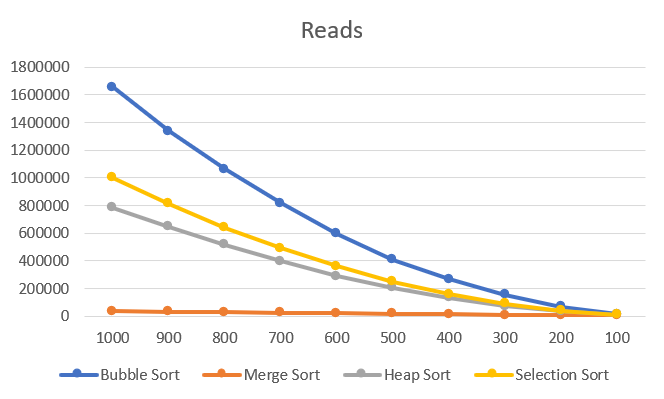
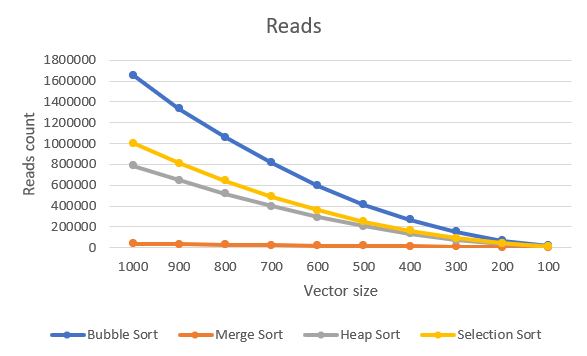
Report

diff --git a/Report.md b/Report.md
@@ -3,26 +3,71 @@
 Answer the following prompts directly in this file:
 * Information about your dataset (you will be assigned a different grader for this project).
 
-  My dataset contains 9 different attributes:
-  - pokemon_id(int) -> Number from 1 to 1025 that identifies the Pokémon.
-  - Name(string) -> Name of the Pokémon, unique attribute.
-  - Primary_type(string) -> Pokémon's primary type.
-  - Secondary_type(string) -> Pokémon's secondary type, can be empty.
-  - First_appreance(string) -> Season of the show where the Pokémon had it's first appereance
-  - Generation(string) -> Pokémon's generation.
-  - Attack(int) -> Pokémon's attack value.
-  - Defense(int) -> Pokémon's defense value.
-  - Speed(int) -> Pokémon's speed value.
+
+    My dataset contains 9 different attributes:
+    - pokemon_id(int) -> Number from 1 to 1025 that identifies the Pokémon.
+    - Name(string) -> Name of the Pokémon, unique attribute.
+    - Primary_type(string) -> Pokémon's primary type.
+    - Secondary_type(string) -> Pokémon's secondary type, can be empty.
+    - First_appreance(string) -> Season of the show where the Pokémon had it's first appereance
+    - Generation(string) -> Pokémon's generation.
+    - Attack(int) -> Pokémon's attack value.
+    - Defense(int) -> Pokémon's defense value.
+    - Speed(int) -> Pokémon's speed value.
   
 
 * Analyze the data. Graph the number of reads and allocations for each sorting algorithm and look at how the number of reads and allocations grows when the size of the data set grows. Compare and contrast the different sorting algorithms and draw conclusions about which sorting algorithms are more efficient. Discuss complexities and their effects.
   
   ![example graph](graphs/reads.jpeg)
-  ![example graph](graphs/allocation.jpeg)
+    
 
-* Look at the output from the stabilityTest function and answer the following questions:
+    According to the reads graph, Bubble Sort and Selection Sort are the two algorithms with the highest number of reads, while Merge Sort and Heap Sort have significantly
+    fewer reads. This is directly related to the time complexity of each algorithm.
+    In the case of Bubble Sort and Selection Sort, both have a time complexity of O(N^2) (exponential increase on the graph), making them inefficient for large datasets. On the other hand, Heap Sort and Merge
+    Sort both have a time complexity ![img.png](img.png)of O(NlogN). However, despite having the same complexity, there is a clear difference in the number of reads between Heap Sort and Merge Sort, which is due to the way they
+    work internally. Merge Sort accesses elements in a more structured and sequential way, reducing the number of reads, whereas Heap Sort involves multiple swaps and comparisons, leading to numerous accesses
+    to the elements.
+
+  ![example graph](graphs/allocations.jpeg)
+
+
+    
+    According to the allocations graph, Merge Sort is the algorithm that requires the most memory allocation. This is because its auxiliary complexity is O(N), meaning that the algorithm requires additional 
+    memory proportional to the input size. As a result, we observe a linear increase in memory allocation as the vector size grows. 
+    In contrast, Bubble Sort, Heap Sort, and Selection Sort have a much lower number of allocations, which remains constant across different vector sizes, since they all have constant auxiliary complexity O(1).
+
+    Base on the properties of each algorithm, I came with the conclusion that Merge Sort is the fastest algorithm and Bubble Sort the most memory efficent. However, they both would not be ideal on certain
+    environments, such as memory-constrained or speed-constrained environments. Therefore, Heap Sort seems to be the most efficient one since it is able to balance speed and memory efficiency.
+
+
+Look at the output from the stabilityTest function and answer the following questions:
   * How are the names sorted by default?
+  
+
+    By default, the names are sorted alphabetically by first name.
   * How is the output from the two stable sorting algorithms different from the two unstable ones? Be specific in your answer, and use what you know about how each sorting algorithm works to justify your observations.
-* Answers to the following questions: 
+    
+
+    For this analysis, it is important to note that all the algorithms are sorting based on the last name and that there are multiple repetitions of last names in the list.
+    In all cases, the final result is a list sorted alphabetically by last name. However, the key difference between the stable algorithms (Bubble Sort and Merge Sort) and
+    the unstable ones (Heap Sort and Selection Sort) lies in how they handle elements with the same last name.
+    Stable sorting algorithms preserve the original order of elements that have the same sorting key, while unstable algorithms do not guarantee this order. Since the original
+    list was already sorted alphabetically by first name, the final outcome for stable algorithms is a list sorted alphabetically by last name, with elements that share the same
+    last name also maintaining their original first-name alphabetical order.
+
+  * Answers to the following questions: 
   * If you need to sort a contacts list on a mobile app, which sorting algorithm(s) would you use and why? 
+
+
+    When dealing with a contacts list in a mobile app, two essential properties are required: speed and low storage usage. According to the results obtained, Bubble Sort has the
+    lowest number of allocations compared to the other algorithms. However, it also has the highest number of reads, making it inefficient in this situation, and the same applies
+    to the Selection Sort algorithm.
+    The remaining two options are Heap Sort and Merge Sort. Although Merge Sort is the fastest, its speed does not compensate for the large amount of allocated memory. Therefore,
+    Heap Sort would be the ideal algorithm in this case, as it efficiently handles the dataset while optimizing memory usage. Additionally, its memory usage remains constant and
+    does not increase with the number of sorted elements.
+
   * What about if you need to sort a database of 20 million client files that are stored in a datacenter in the cloud?
+    
+    
+    In this situation, since we are dealing with a very large dataset stored in a datacenter in the cloud, speed would be prioritized over memory usage, as the cloud has sufficient
+    storage to handle large memory allocations. Because of this, Merge Sort would be the ideal algorithm, as it is the fastest among all the tested options.
